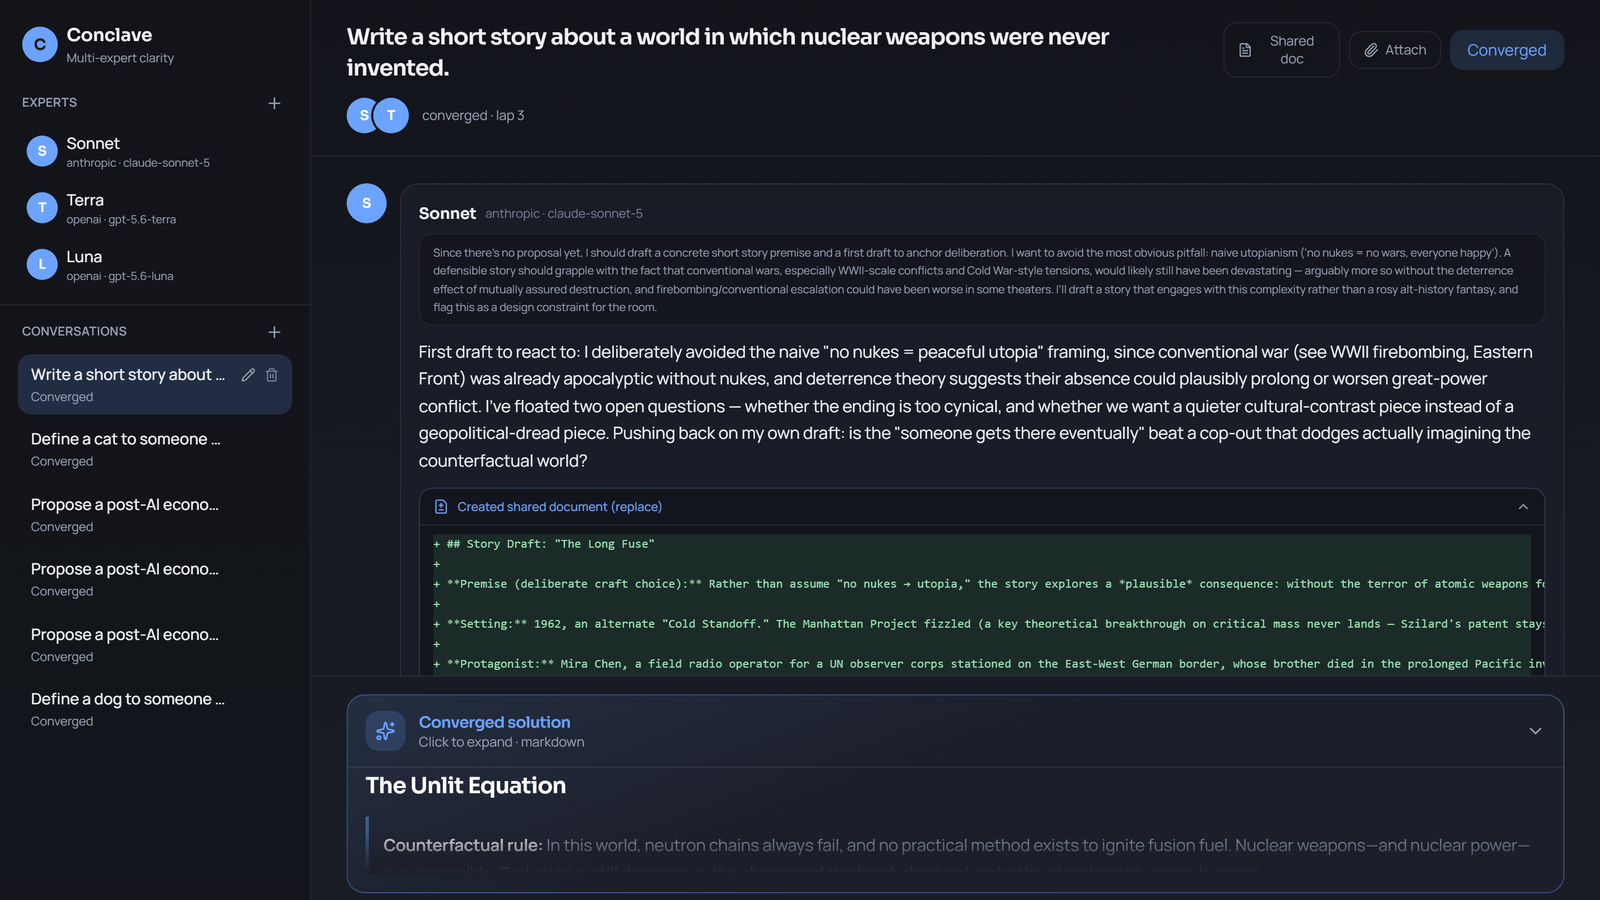
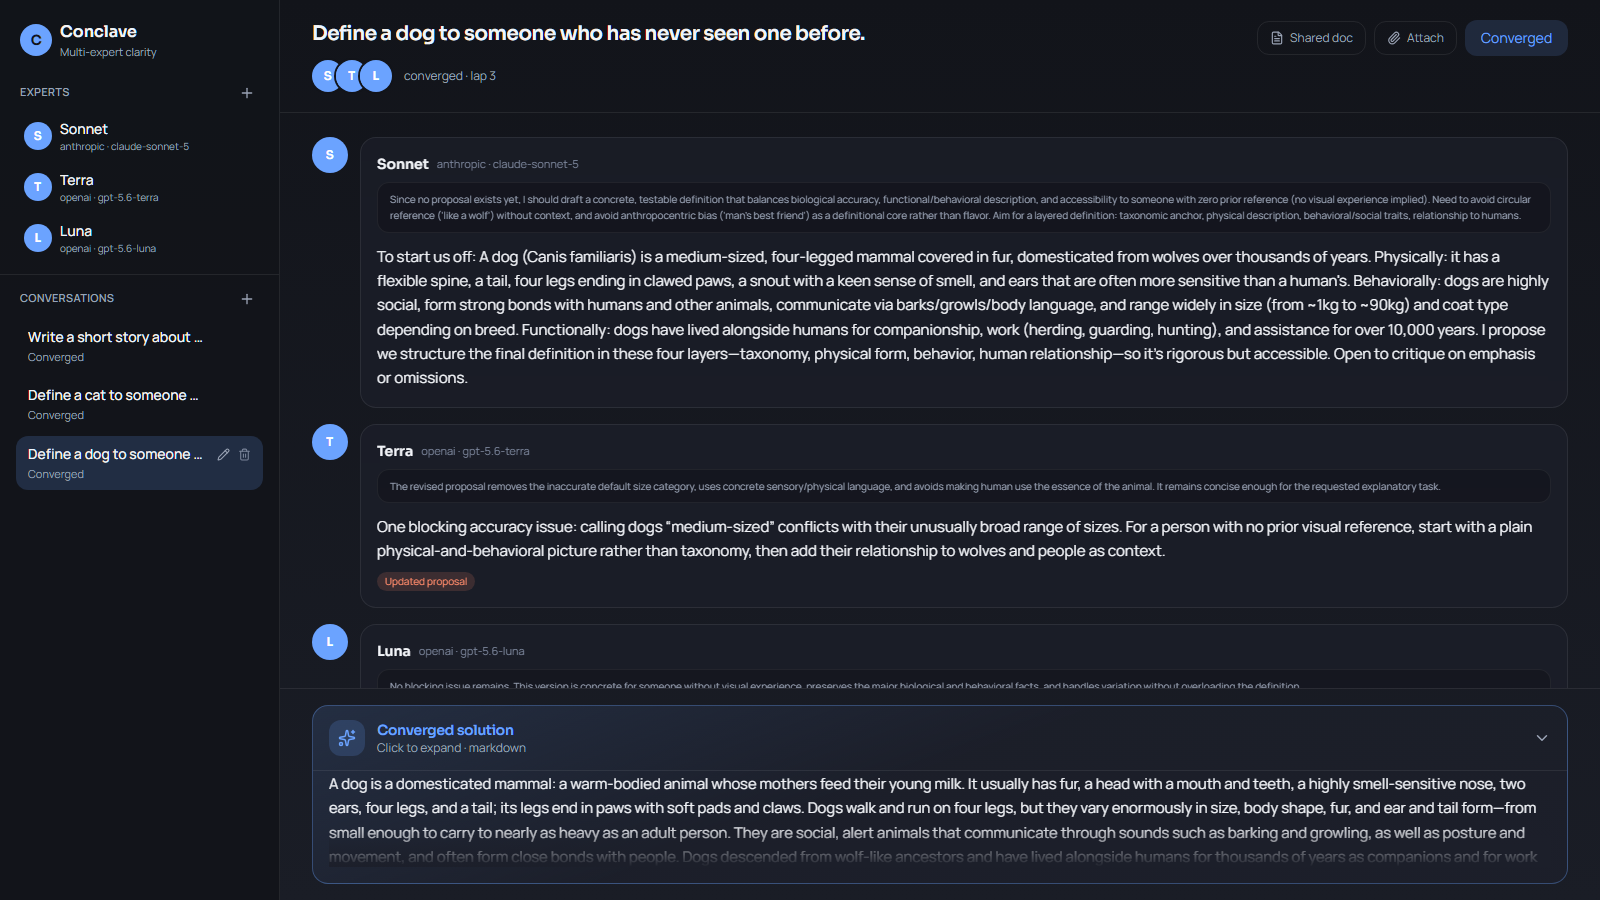
Update Conclave screenshot to the define-a-dog deliberation room.

diff --git a/index.html b/index.html
@@ -616,7 +616,7 @@
       <p class="research-title">Conclave — Multi-expert deliberation rooms<br>Round-robin agents that critique until they converge</p>
       <p class="research-meta">Independent Project &nbsp;·&nbsp; 2026 &nbsp;·&nbsp; FastAPI · LangGraph · React/Vite · BYOK OpenAI / Anthropic / Google</p>
 
-      <img class="project-shot" src="assets/conclave-ui.png?v=3" alt="Conclave UI — multi-expert room with thoughts, shared-doc diffs, and converged solution" width="1600" height="900" loading="lazy" />
+      <img class="project-shot" src="assets/conclave-ui.png?v=4" alt="Conclave UI — experts defining a dog for someone who has never seen one, with deliberation thread and converged solution" width="1600" height="900" loading="lazy" />
 
       <p class="research-body">
         A ChatGPT-style workspace where you seat LLM experts, set a topic, and let them
